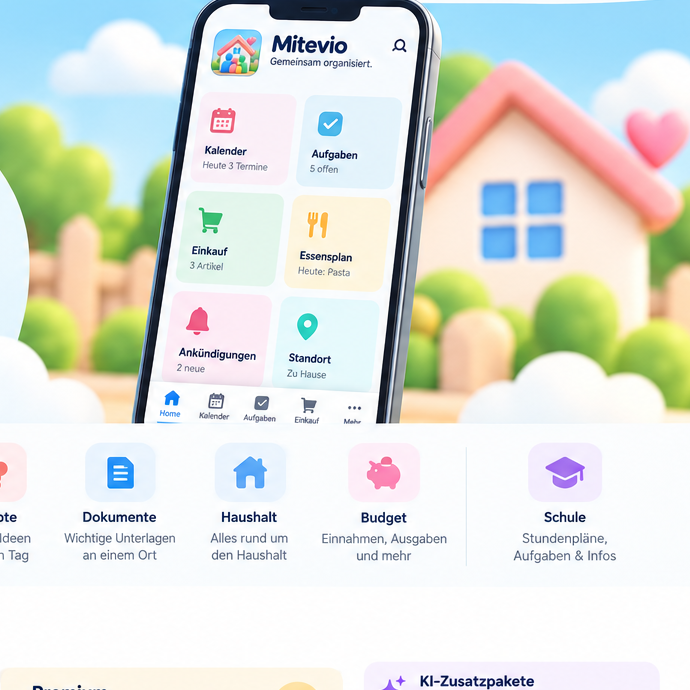
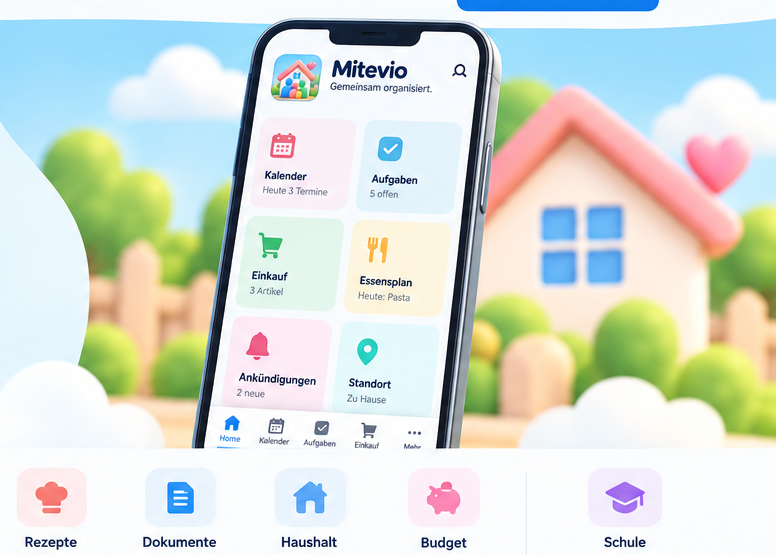
Add files via upload

diff --git a/styles.css b/styles.css
@@ -285,3 +285,11 @@ footer small{opacity:.78}
   h1{font-size:2.35rem}
   .section{padding:54px 0}
 }
+
+/* V4 Feinschliff */
+.hero-image-card{min-height:420px}
+.hero-image-card img{max-height:520px}
+@media(max-width:900px){
+  .hero-image-card{min-height:auto}
+  .hero-image-card img{max-height:none}
+}
